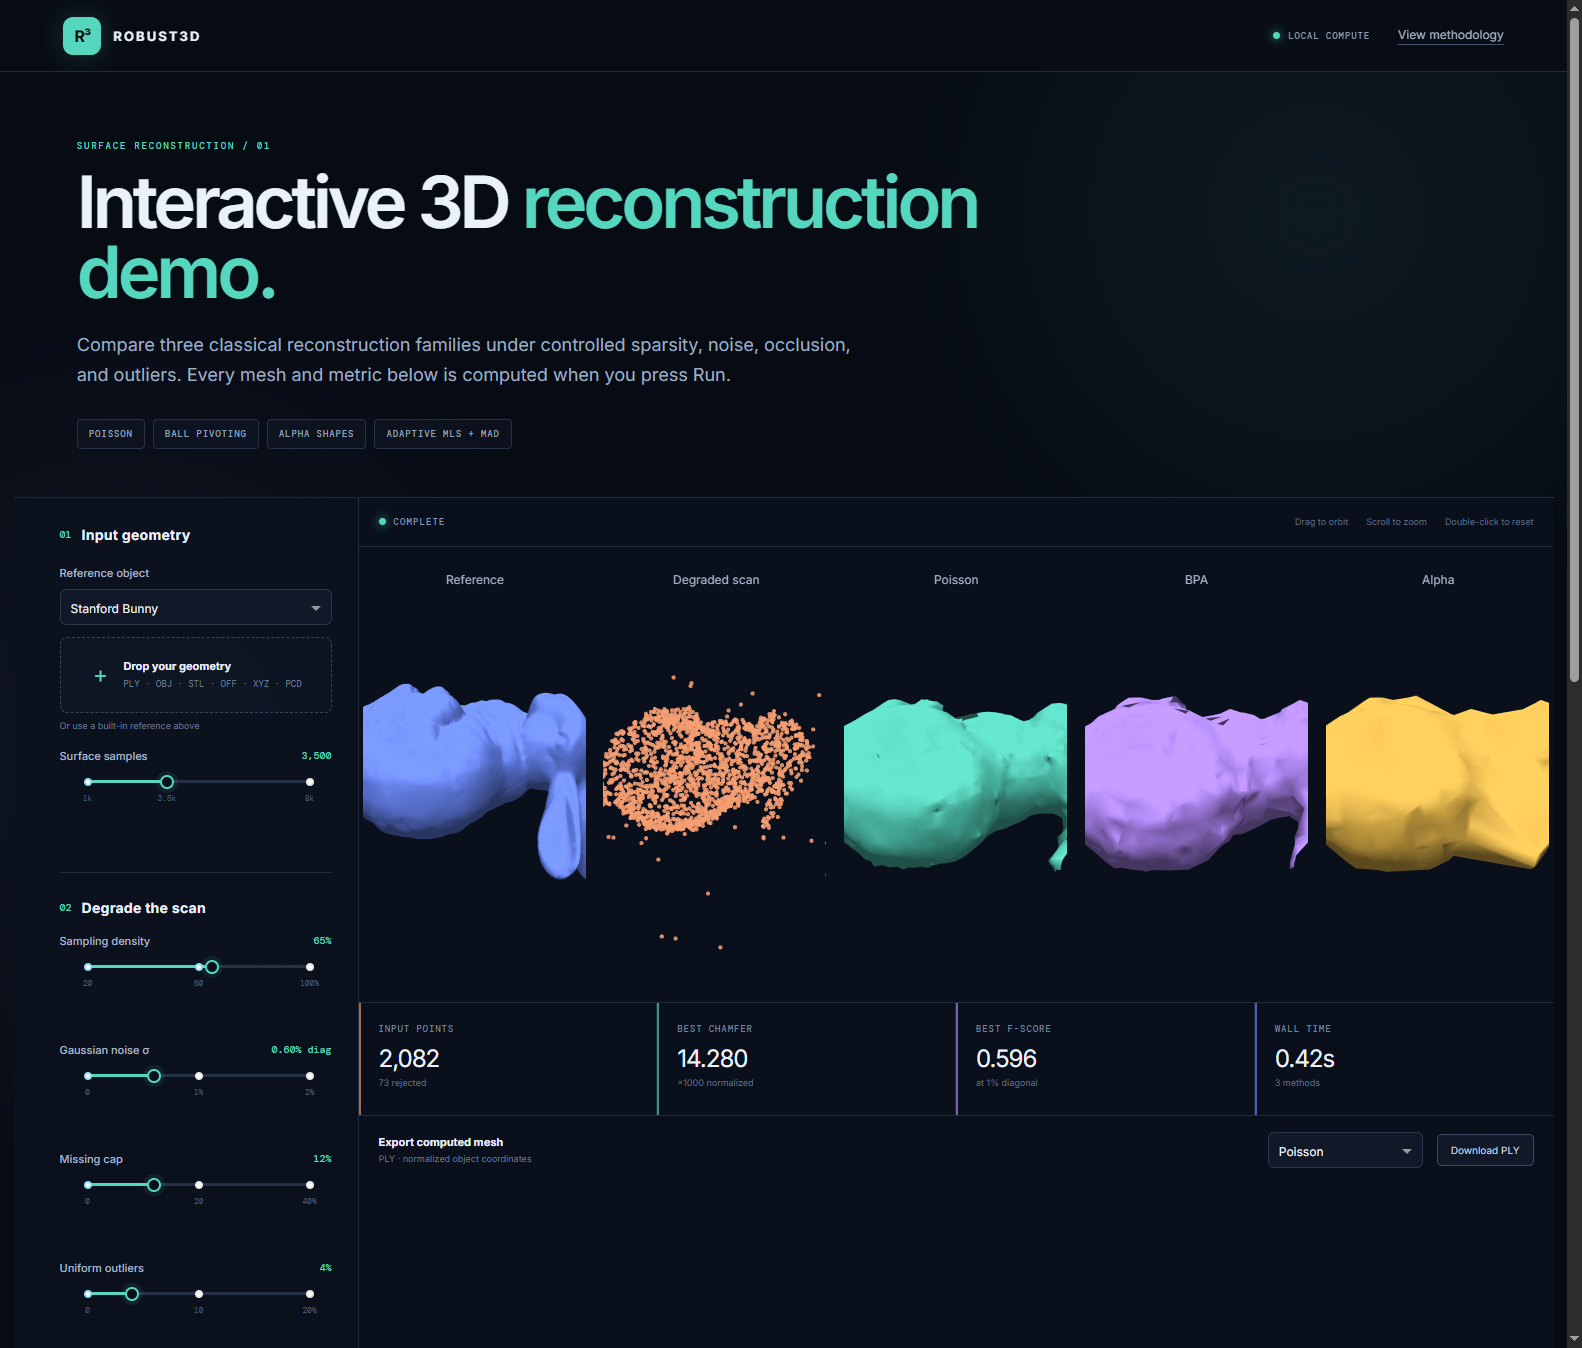
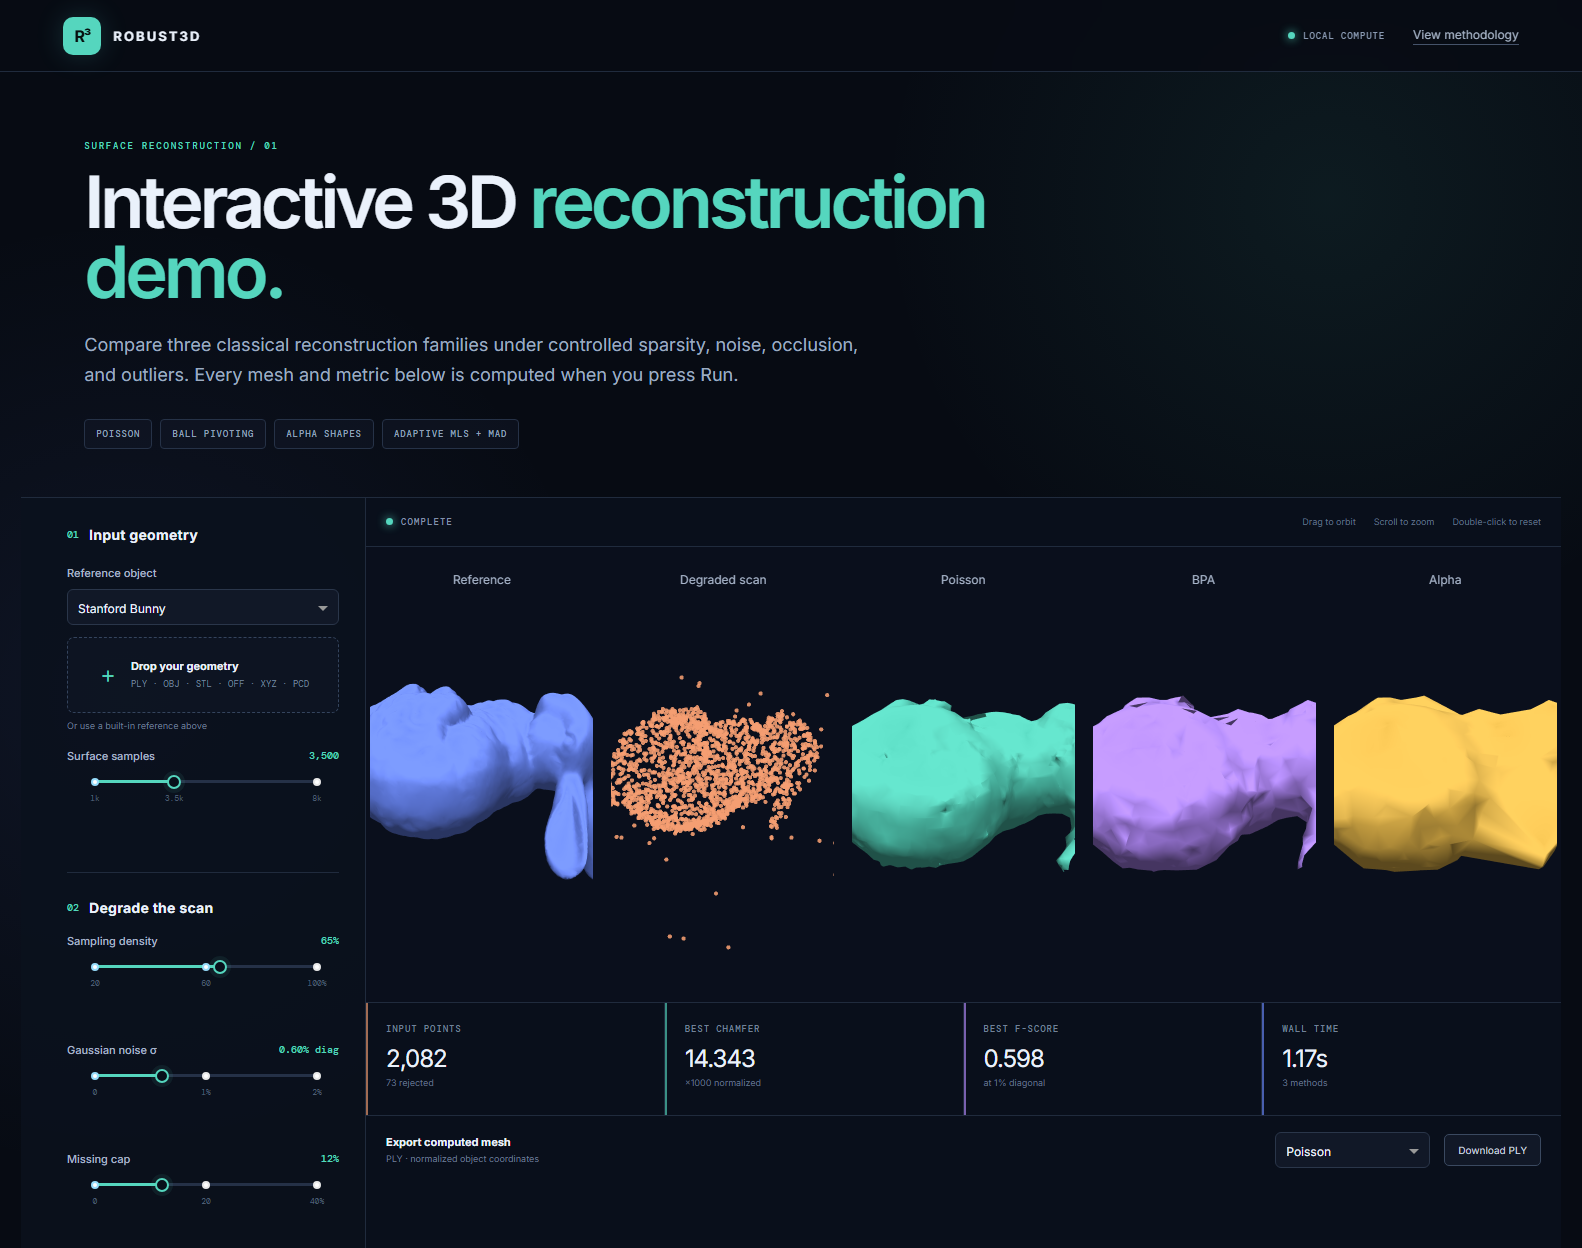
Update the Readme and the results

diff --git a/README.md b/README.md
@@ -6,7 +6,7 @@
 
 **Poisson · Ball Pivoting · Alpha Shapes · Density-adaptive preprocessing**
 
-[Interactive lab](#interactive-geometry-lab) · [Measured results](#measured-results) · [Reproduce](#reproduce-the-benchmark) · [Technical notes](docs/ALGORITHMS.md)
+[Interactive lab](#interactive-geometry-lab) · [Measured results](#measured-results) · [Technical notes](docs/ALGORITHMS.md)
 
 </div>
 
@@ -90,33 +90,6 @@ robust3d demo
 
 Open <http://127.0.0.1:8050>. The Stanford meshes are downloaded by Open3D and cached on first use; Robust3D does not redistribute them.
 
-## Pipeline
-
-```mermaid
-flowchart LR
-    A[Reference mesh / upload] --> B[Surface sampling]
-    B --> C[Density + noise + missing cap + outliers]
-    C --> D{Preprocessing}
-    D -->|Baseline| E[Fixed-policy normal estimation]
-    D -->|Adaptive| F[Median k-NN scale]
-    F --> G[MAD outlier rejection]
-    G --> H[Spacing-scaled voxel equalization]
-    H --> I[Robust local PCA / MLS projection]
-    I --> J[Adaptive normal estimation]
-    E --> K{Reconstruct}
-    J --> K
-    K --> L[Poisson]
-    K --> M[Ball Pivoting]
-    K --> N[Alpha Shapes]
-    L --> O[Sampled surface evaluation]
-    M --> O
-    N --> O
-```
-
-The proposed preprocessing is deliberately classical and interpretable. Its distance thresholds are expressed in units of the measured local sample spacing, rather than in arbitrary object coordinates. A median-absolute-deviation rule rejects isolated points, voxel downsampling reduces density imbalance, one conservative local PCA projection suppresses normal-direction noise, and a spacing-scaled radius stabilizes oriented normal estimation.
-
-Read [`docs/ALGORITHMS.md`](docs/ALGORITHMS.md) for the algorithmic reasoning and [`docs/EXPERIMENTS.md`](docs/EXPERIMENTS.md) for the protocol.
-
 ## Command-line use
 
 List the built-in objects:
@@ -145,47 +118,6 @@ Use an uploaded mesh or point cloud:
 ```bash
 robust3d reconstruct --input scan.ply --algorithm bpa --output reconstruction.ply
 ```
-
-Python API:
-
-```python
-from robust3d import (
-    DegradationConfig,
-    PipelineConfig,
-    PreprocessConfig,
-    ReconstructionConfig,
-    run_pipeline,
-)
-
-result = run_pipeline(PipelineConfig(
-    object_name="bunny",
-    n_points=3500,
-    degradation=DegradationConfig(
-        density=0.55, noise_sigma=0.008,
-        missing_fraction=0.18, outlier_fraction=0.08, seed=7,
-    ),
-    preprocessing=PreprocessConfig(mode="adaptive"),
-    reconstruction=ReconstructionConfig(algorithm="poisson", poisson_depth=7),
-))
-
-print(result.metrics)
-```
-
-## Reproduce the benchmark
-
-The quick benchmark is suitable for CI and laptops:
-
-```bash
-robust3d experiment --config configs/quick.yaml --output results
-```
-
-The larger sweep uses three objects, seven degradation scenarios, 5,000 source samples, 10,000 evaluation samples, and Poisson depth 8:
-
-```bash
-robust3d experiment --config configs/full.yaml --output results/full
-```
-
-Each run writes raw CSV/JSON, environment metadata, a Markdown report, charts, representative PLY meshes, and a comparison image. Failed algorithm/parameter combinations are recorded rather than silently discarded.
 
 ## Metrics
 
@@ -221,15 +153,6 @@ Robust3D/
 └── tests/                       # deterministic unit + integration tests
 ```
 
-## Verification
-
-```bash
-python -m pytest
-python -m ruff check .
-```
-
-The current suite exercises deterministic degradation, scale estimation, adaptive outlier rejection, all three real reconstructors, metric bounds, and the dashboard HTTP entry point.
-
 ## Limitations
 
 - Poisson can produce visually plausible closure over missing regions; this is not evidence that the hidden surface is correct.
@@ -238,16 +161,6 @@ The current suite exercises deterministic degradation, scale estimation, adaptiv
 - The adaptive stage targets noise and isolated outliers. It is intentionally bypassable because it can oversmooth clean high-frequency detail.
 - Uploads that contain only points have no ground-truth surface, so reference-based metrics are marked unavailable.
 - The benchmark is a controlled undergraduate study, not a claim of state-of-the-art reconstruction.
-
-## Data and references
-
-Stanford Bunny and Armadillo are fetched from the [Stanford 3D Scanning Repository](https://graphics.stanford.edu/data/3Dscanrep/) through Open3D's data helper. Procedural objects provide license-safe topology stress tests. No dataset files are committed; review each source's terms before redistribution. See [`docs/DATASETS.md`](docs/DATASETS.md).
-
-Core methods:
-
-1. M. Kazhdan, M. Bolitho, and H. Hoppe, “Poisson Surface Reconstruction,” SGP 2006.
-2. F. Bernardini et al., “The Ball-Pivoting Algorithm for Surface Reconstruction,” IEEE TVCG, 1999.
-3. H. Edelsbrunner and E. P. Mücke, “Three-Dimensional Alpha Shapes,” ACM TOG, 1994.
 
 ## License
 
